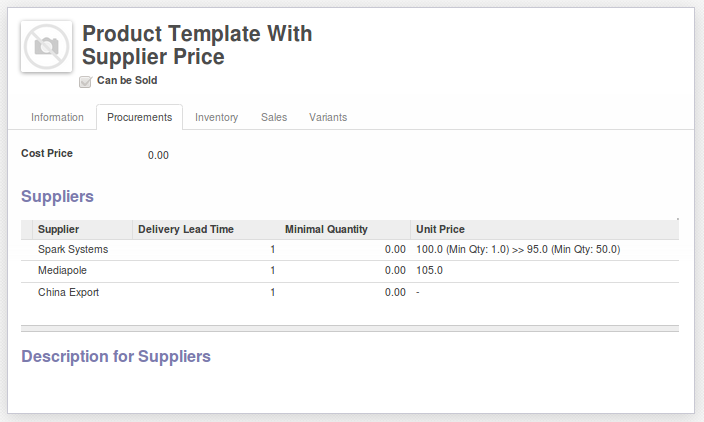
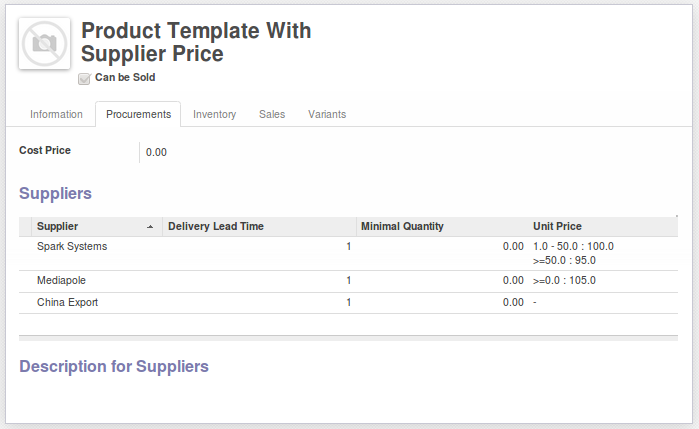
[IMP] improve display;

diff --git a/product_variant_cost_price/product_supplierinfo_tree_price_info/models/product_supplierinfo.py b/product_variant_cost_price/product_supplierinfo_tree_price_info/models/product_supplierinfo.py
@@ -35,28 +35,19 @@ class ProductSupplierinfo(Model):
             if len(supplierinfo.pricelist_ids) == 0:
                 supplierinfo.unit_price = 0
                 supplierinfo.unit_price_note = _('-')
-            elif len(supplierinfo.pricelist_ids) == 1:
-                item = supplierinfo.pricelist_ids[0]
-                supplierinfo.unit_price = item.price
-                if item.min_quantity not in (0, 1):
-                    supplierinfo.unit_price_note = _("%s (Min Qty: %s)" % (
-                        item.price, item.min_quantity))
-                else:
-                    supplierinfo.unit_price_note = item.price
             else:
-                min_qty = max_qty = supplierinfo.pricelist_ids[0].min_quantity
-                min_price = max_price = supplierinfo.pricelist_ids[0].price
-                for item in supplierinfo.pricelist_ids:
-                    if item.min_quantity < min_qty:
-                        min_qty = item.min_quantity
-                        min_price = item.price
-                    if item.min_quantity > max_qty:
-                        max_qty = item.min_quantity
-                        max_price = item.price
-                supplierinfo.unit_price = min_price
-                supplierinfo.unit_price_note = _(
-                    "%s (Min Qty: %s) >> %s (Min Qty: %s)" % (
-                        min_price, min_qty, max_price, max_qty))
+                txt = ''
+                size = len(supplierinfo.pricelist_ids)
+                for i in range(size - 1):
+                    txt += '%s - %s :  %s\n' % (
+                        supplierinfo.pricelist_ids[i].min_quantity,
+                        supplierinfo.pricelist_ids[i + 1].min_quantity,
+                        supplierinfo.pricelist_ids[i].price)
+                txt += '>=%s : %s' % (
+                    supplierinfo.pricelist_ids[size - 1].min_quantity,
+                    supplierinfo.pricelist_ids[size - 1].price)
+                supplierinfo.unit_price = supplierinfo.pricelist_ids[0].price
+                supplierinfo.unit_price_note = txt
 
     unit_price_note = fields.Char(
         compute=_get_unit_price, multi='unit_price', string='Unit Price')
